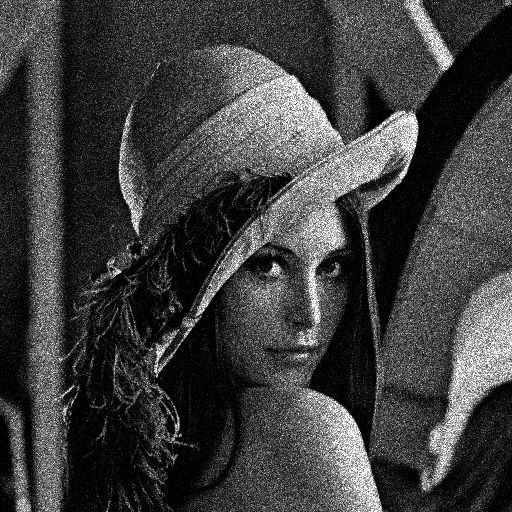
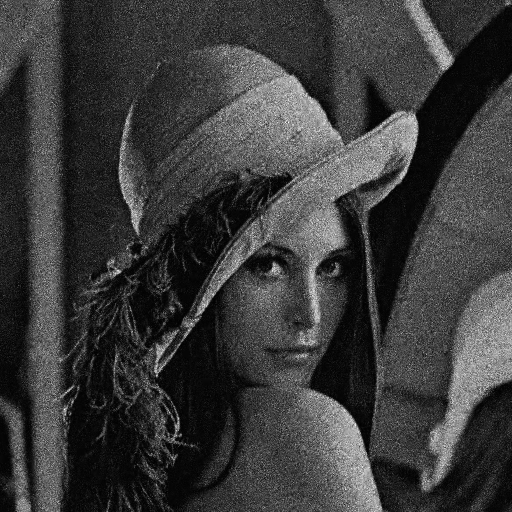
Résolution d'erreur

diff --git a/src/ACP/ACP.java b/src/ACP/ACP.java
@@ -31,39 +31,44 @@ public class ACP {
      * @param ListeVecteurs la liste de vecteurs à transformer
      * @return une matrice contenant les valeurs des vecteurs
      */
-	public static double[][] listToMatrice(ArrayList<Vecteur> ListeVecteurs) {
-		int nblignes = ListeVecteurs.size();
-		int nbcolonnes = ListeVecteurs.get(0).getTaille();
-		
-		double[][] matrice = new double[nblignes][nbcolonnes];
-		
-		for(int i = 0; i < nblignes; i++) {
-			double[] vecteur = new double [nbcolonnes];
-			vecteur = ListeVecteurs.get(i).getValeur();
-			for(int j = 0; j < nbcolonnes; j++) {
-				matrice[i][j]= vecteur[j];
-			}
-				
-		}
+	public static double[][] listToMatrice(ArrayList<Vecteur> listeVecteurs) {
+	    int nbVecteurs = listeVecteurs.size();
+	    int tailleVecteur = listeVecteurs.get(0).getTaille();
+	    
+	    double[][] matrice = new double[nbVecteurs][tailleVecteur];
+	    
+	    for (int i = 0; i < nbVecteurs; i++) {
+	        double[] valeurs = listeVecteurs.get(i).getValeur();
+	        for (int j = 0; j < tailleVecteur; j++) {
+	            matrice[i][j] = valeurs[j];
+	        }
+	    }
+	    
 	    return matrice;
 	}
-	
+
 	 /**
      * Transforme une matrice en une liste de vecteurs.
      * @author Nathan Poireault
      * @param matrice la matrice à transformer
      * @return une liste de vecteurs contenant les lignes de la matrice
      */
-	public static ArrayList<Vecteur> matriceToList(double[][] matrice) {
-		int nblignes = matrice.length;
-		ArrayList<Vecteur> listeVecteur = new ArrayList<Vecteur>();
-		
-		for(int i = 0; i < nblignes; i++) {
-			Vecteur newvecteur = new Vecteur(matrice[i].length,matrice[i]);
-			listeVecteur.add(newvecteur);
-		}
+		public static ArrayList<Vecteur> matriceToList(double[][] matrice) {
+	    int nblignes = matrice.length;
+	    int nbcolonnes = matrice[0].length;
+	    ArrayList<Vecteur> listeVecteur = new ArrayList<>();
+
+	    for (int j = 0; j < nbcolonnes; j++) {
+	        double[] colonne = new double[nblignes];
+	        for (int i = 0; i < nblignes; i++) {
+	            colonne[i] = matrice[i][j];
+	        }
+	        Vecteur newvecteur = new Vecteur(nblignes, colonne);
+	        listeVecteur.add(newvecteur);
+	    }
 	    return listeVecteur;
 	}
+
 	
 	/**
      * Centre et réduit les vecteurs d'une liste.
@@ -209,54 +214,52 @@ public class ACP {
      * @return une nouvelle liste d'objets représentant les vecteurs débruités.
      */
 	public static ArrayList<Vecteur> denoisingACP(ArrayList<Vecteur> vecteurs, String typeSeuillage, String methodeSeuil, double sigma) {
-	    // 1. Centrage / réduction
-	    ArrayList<Vecteur> vecteursCentres = moyCov(vecteurs);
+		// 1. Centrage / réduction
+		ArrayList<Vecteur> vecteursCentres = moyCov(vecteurs);
 
-	    // 2. Passage en matrice et transpose (colonnes = vecteurs)
-	    double[][] data = listToMatrice(vecteursCentres);
-	    RealMatrix X = MatrixUtils.createRealMatrix(data);
-	    System.out.println("X dimensions: " + X.getRowDimension() + " x " + X.getColumnDimension());
+		// 2. ACP
+		ACP acp = new ACP(vecteurs);
+		ArrayList<Vecteur> base = acp.traitementACP(acp); // base orthonormale obtenue via ACP
+		System.out.println("B dimensions: " + base.size() + " vecteurs");
 
-	    // 3. ACP
-	    ACP acp = new ACP(vecteurs);
-	    ArrayList<Vecteur> base = acp.traitementACP(acp);
-	    RealMatrix B = MatrixUtils.createRealMatrix(listToMatrice(base)).transpose();
-	    System.out.println("B dimensions: " + B.getRowDimension() + " x " + B.getColumnDimension());
-
-	    // 5. Projection dans la base ACP : coeffs = B^T * X
-	    System.out.println("Multiplying B^T (" + B.transpose().getRowDimension() + " x " + B.transpose().getColumnDimension() + ") with X (" + X.getRowDimension() + " x " + X.getColumnDimension() + ")");
-	    if (X.getColumnDimension() != B.transpose().getRowDimension()) {
-	        System.err.println("Dimension mismatch for multiplication X * B^T: " + X.getColumnDimension() + " != " + B.transpose().getRowDimension());
-	        throw new IllegalArgumentException("Dimension mismatch for multiplication X * B^T");
-	    }
-
-	    
-	    RealMatrix coeffs = X.multiply(B.transpose());
-
-
-
-	    // 6. Récupération des coefficients pour seuillage
-	    List<double[]> listCoeff = new ArrayList<>();
-	    for (int i = 0; i < coeffs.getColumnDimension(); i++) {
-	        double[] colonne = coeffs.getColumn(i);
-	        listCoeff.add(colonne);
-	    }
+		// Création de la matrice B à partir de la base
+		RealMatrix B = MatrixUtils.createRealMatrix(listToMatrice(base)).transpose();
+		
+		// 3. Projection des vecteurs centrés dans la base ACP
+		List<Vecteur> coeffs =  Vecteur.proj(base, vecteursCentres); // Projection des vecteurs centré
+		
+		
+		//4. Récupéré les valeur des coeefs
+		List<double[]> listCoeff = new ArrayList<>();
+		for (Vecteur v : coeffs) {
+		    listCoeff.add(v.getValeur()); // on récupère les valeurs des coefficients
+		}
+		
+		for (int i = 0; i < Math.min(5, listCoeff.size()); i++) {
+		    double[] col = listCoeff.get(i);
+		    System.out.print("Coeff[" + i + "] = ");
+		    for (int j = 0; j < Math.min(5, col.length); j++) {
+		        System.out.print(col[j] + " ");
+		    }
+		    System.out.println();
+		}
 
 	    // Stats avant seuillage
 	    if (!listCoeff.isEmpty()) {
 	        printStats("Avant seuillage (1er vecteur)", listCoeff.get(0));
 	    }
-
+	    
 	    // 7. Calcul du seuil
-	    double seuil = 0;
-	    if (methodeSeuil.equalsIgnoreCase("VisuShrink")) {
+	    double seuil = 0.65;
+	    /*if (methodeSeuil.equalsIgnoreCase("VisuShrink")) {
 	        int tailleImage = vecteurs.size() * vecteurs.get(0).getTaille();
 	        seuil = Seuillage.seuilV(sigma, tailleImage);
 	    } else if (methodeSeuil.equalsIgnoreCase("BayesShrink")) {
 	        seuil = Seuillage.seuilB(sigma, listCoeff);
-	    }
+	    }*/
+	    
 	    System.out.println("Seuil utilisé : " + seuil);
-	    seuil *= 0.1;
+	  
 
 	    // 8. Application du seuillage
 	    Seuillage seuillage = new Seuillage(seuil, listCoeff);
@@ -281,7 +284,7 @@ public class ACP {
 	        }
 	    }
 	    RealMatrix coeffsSeuilleesMatrix = MatrixUtils.createRealMatrix(coeffsMatrix);
-
+	    
 	    // 10. Reconstruction de X débruité
 	    System.out.println("Multiplying B (" + B.getRowDimension() + " x " + B.getColumnDimension() + ") with coeffsSeuilleesMatrix (" + coeffsSeuilleesMatrix.getRowDimension() + " x " + coeffsSeuilleesMatrix.getColumnDimension() + ")");
 	    if (B.getColumnDimension() != coeffsSeuilleesMatrix.getRowDimension()) {
@@ -291,15 +294,10 @@ public class ACP {
 	    RealMatrix X_denoised = B.multiply(coeffsSeuilleesMatrix);
 	    System.out.println(Arrays.toString(X_denoised.getRow(0)));
 
-	    // Stats après reconstruction
-	    double[] allValues = Arrays.stream(X_denoised.getData())
-	            .flatMapToDouble(Arrays::stream)
-	            .toArray();
-	    printStats("Image reconstruite (X_denoised)", allValues);
-
 	    // 11. Transpose et conversion en liste de vecteurs
-	    double[][] dataDenoised = X_denoised.transpose().getData();
+	    double[][] dataDenoised = X_denoised.getData(); 
 	    ArrayList<Vecteur> resultat = matriceToList(dataDenoised);
+
 
 	    return resultat;
 	}

diff --git a/src/Image/Image.java b/src/Image/Image.java
@@ -219,11 +219,11 @@ public class Image {
 	    List<Vecteur> vecteurs = Patch.VectorPatchs(patchs);
 	    
 	    // 4. Appliquer le débruitage PCA
-	    //ArrayList<Vecteur> vecteursArrayList = new ArrayList<>(vecteurs);
-	    //List<Vecteur> vecteursDen = ACP.denoisingACP(vecteursArrayList, typeSeuillage, methodeSeuil, sigma);
-	    
+	    ArrayList<Vecteur> vecteursArrayList = new ArrayList<>(vecteurs);
+	    List<Vecteur> vecteursDen = ACP.denoisingACP(vecteursArrayList, typeSeuillage, methodeSeuil, sigma);
+	    System.out.println("test");
 	    // 5. Reconversion des vecteurs débruités en patchs
-	    List<Patch> patchsDen = Patch.PatchVectors(vecteurs);
+	    List<Patch> patchsDen = Patch.PatchVectors(vecteursDen);
 	    
 	    // 6. Reconstruction de l’image en utilisant le même shift que celui utilisé pour extraire les patchs
 	    Image imgDenoised = Image.reconstructPatchs(patchsDen, imgNoisy.getHeight(), imgNoisy.getWidth(), shift);

diff --git a/src/PurePixel.java b/src/PurePixel.java
@@ -110,7 +110,7 @@ public class PurePixel {
 			try {
 			    Image imgBruitée = new Image(cheminBruitee);
 			    Image imgDebruitee = null;
-			    String typeSeuillage = (choixSeuillage == 1) ? "dur" : "dou";
+			    String typeSeuillage = (choixSeuillage == 1) ? "dur" : "doux";
 			    String methodeSeuil = "VisuShrink"; 
 			    int patchSize = 8;  // taille patch par défaut, modifiable
 			    double sigma = 0.1; // écart type bruit, à ajuster ou demander à l'utilisateur

diff --git a/src/Image/Patch.java b/src/Image/Patch.java
@@ -97,6 +97,10 @@ public class Patch {
         return vectors;
     }
 
+    /*
+     * Met une liste de vecteur de patchs
+     * 
+     */
     public static List<Patch> PatchVectors(List<Vecteur> vecteurs) {
         List<Patch> patchs = new ArrayList<>();
         for (Vecteur v : vecteurs) {
